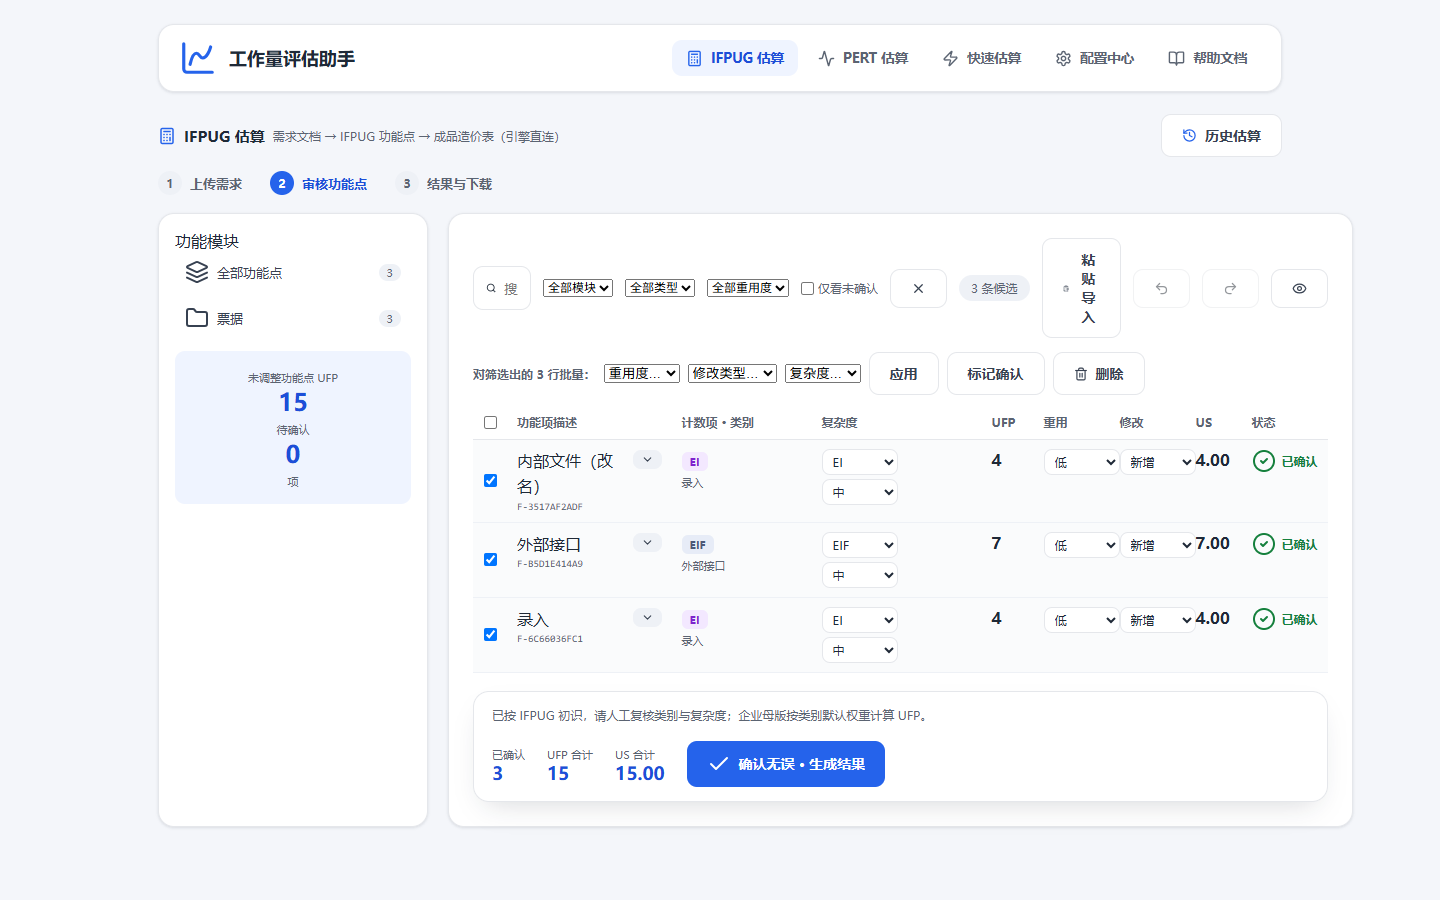
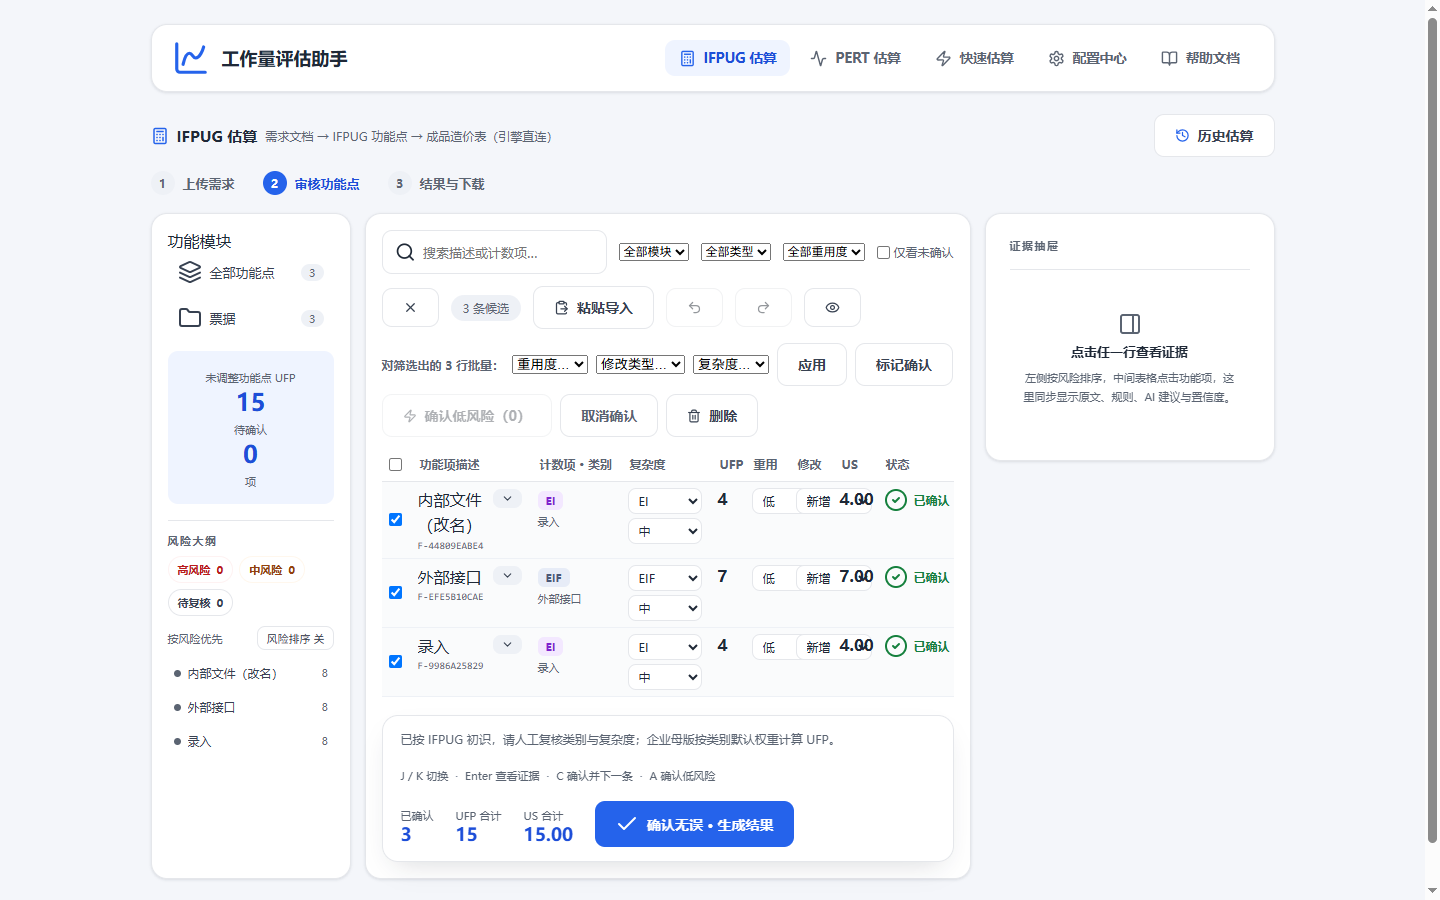
test(phase3): 稳定 ID 三版本导出导入验证 (T06194)
- 同一项目 v1/v2/v3 导出真实 zip，导入全新数据目录后 ID 不变、明细无丢失\n- 导入后重开 v4 与类型变更 v5，映射表/替换链通过\n- 新测试 19/19；既有 stable-ids API/UI 复跑 20/20

diff --git a/tests/phase3/stable_ids_versions.py b/tests/phase3/stable_ids_versions.py
@@ -1,0 +1,146 @@
+# -*- coding: utf-8 -*-
+"""T06194：同一项目 3 个版本导出/导入/重开后的稳定 ID 与映射表校验。
+
+不依赖在线服务；直接使用真实 HistStore + datakeeper 导出/导入 zip，
+覆盖 AC-11 的 3 版本迭代、导出、导入、重开与类型变更链。
+"""
+import json
+import os
+import shutil
+import sqlite3
+import sys
+import tempfile
+from pathlib import Path
+
+ROOT = Path(__file__).resolve().parents[2]
+sys.path.insert(0, str(ROOT / "scripts"))
+import history as H  # noqa: E402
+import datakeeper as DK  # noqa: E402
+
+PASS = FAIL = 0
+CASES = []
+
+
+def check(name, cond, detail=""):
+    global PASS, FAIL
+    CASES.append({"title": name, "ok": bool(cond), "detail": str(detail)})
+    if cond:
+        PASS += 1
+        print(f"  PASS  {name}  — {detail}")
+    else:
+        FAIL += 1
+        print(f"  FAIL  {name}  — {detail}")
+
+
+def item(desc, typ="ILF", system="票据", count="内部文件"):
+    return {"desc": desc, "type": typ, "system": system, "cx": "中", "reuse": "低",
+            "modify": "新增", "count_item": count, "seq": 1}
+
+
+def sids(items):
+    return [x.get("stable_id") for x in items]
+
+
+def main():
+    tmp = tempfile.mkdtemp(prefix="stable_versions_")
+    data = os.path.join(tmp, "data")
+    restore = os.path.join(tmp, "restore")
+    os.makedirs(data, exist_ok=True)
+    os.makedirs(restore, exist_ok=True)
+    zip_path = os.path.join(tmp, "data_export.zip")
+    try:
+        # 导出包要求 pert.db；真实环境会由主程序生成，测试用最小库占位。
+        sqlite3.connect(os.path.join(data, "pert.db")).close()
+        with open(os.path.join(data, DK.F_SCHEMA_VER), "w", encoding="utf-8") as f:
+            f.write(str(DK.SCHEMA_VER))
+
+        h = H.HistStore(os.path.join(data, "estimation.db"))
+        base = [item("内部文件"), item("外部接口", "EIF"), item("录入", "EI", count="录入")]
+        r1 = h.insert(title="稳定ID三版本", method="IFPUG", items=[dict(x) for x in base],
+                      summary={"count": 3})
+        v1 = h.get(r1["id"])
+        sid1 = sids(v1["items"])
+        check("第1版生成3个稳定ID", len(sid1) == 3 and all(s.startswith("F-") for s in sid1), sid1)
+
+        r2 = h.insert(title="稳定ID三版本", method="IFPUG", items=[dict(x) for x in v1["items"]],
+                      summary={"count": 3}, reopen_group=r1["version_group"])
+        v2 = h.get(r2["id"])
+        check("第2版稳定ID不变", sids(v2["items"]) == sid1, sids(v2["items"]))
+
+        changed_desc = [dict(v2["items"][0], desc="内部文件（v3改名）"), dict(v2["items"][1]), dict(v2["items"][2])]
+        r3 = h.insert(title="稳定ID三版本", method="IFPUG", items=changed_desc,
+                      summary={"count": 3}, reopen_group=r1["version_group"])
+        v3 = h.get(r3["id"])
+        check("第3版改名但稳定ID不变", sids(v3["items"]) == sid1, sids(v3["items"]))
+        check("3个版本 version_no 递增", [v1["version_no"], v2["version_no"], v3["version_no"]] == [1, 2, 3],
+              [v1["version_no"], v2["version_no"], v3["version_no"]])
+        val = h.validate_ids()
+        check("导出前映射表校验通过", val["ok"] and val["rows"] == 3 and val["items"] == 9 and val["mapped"] == 3, val)
+
+        names = DK.export_zip(data, zip_path)
+        check("导出包包含估算库与 schema", DK.F_ESTIMATION_DB in names and DK.F_SCHEMA_VER in names, names)
+        check("导出包可被 zip 校验读取", os.path.getsize(zip_path) > 0 and zipfile_is_ok(zip_path), os.path.getsize(zip_path))
+
+        imported = DK.import_zip(zip_path, restore)
+        check("导入到全新数据目录成功", DK.F_ESTIMATION_DB in imported, imported)
+
+        h2 = H.HistStore(os.path.join(restore, "estimation.db"))
+        r1b = h2.get(r1["id"])
+        r2b = h2.get(r2["id"])
+        r3b = h2.get(r3["id"])
+        check("导入后第1版稳定ID不变", sids(r1b["items"]) == sid1, sids(r1b["items"]))
+        check("导入后第2版稳定ID不变", sids(r2b["items"]) == sid1, sids(r2b["items"]))
+        check("导入后第3版稳定ID不变", sids(r3b["items"]) == sid1, sids(r3b["items"]))
+        check("导入后明细字段无丢失",
+              [(x["desc"], x["type"], x["system"], x["count_item"]) for x in r3b["items"]] ==
+              [(x["desc"], x["type"], x["system"], x["count_item"]) for x in v3["items"]],
+              [(x["desc"], x["type"]) for x in r3b["items"]])
+        val2 = h2.validate_ids()
+        check("导入后映射表校验通过", val2["ok"] and val2["rows"] == 3 and val2["items"] == 9 and val2["mapped"] == 3, val2)
+
+        v4_items = [dict(r3b["items"][0], desc="内部文件（导入后重开）"), dict(r3b["items"][1]), dict(r3b["items"][2])]
+        r4 = h2.insert(title="稳定ID三版本", method="IFPUG", items=v4_items,
+                       summary={"count": 3}, reopen_group=r3b["version_group"])
+        v4 = h2.get(r4["id"])
+        check("导入后重开第4版稳定ID不变", sids(v4["items"]) == sid1, sids(v4["items"]))
+        check("重开第4版 version_no=4", v4["version_no"] == 4, v4["version_no"])
+        d = h2.diff(r3b["id"], r4["id"])
+        check("导入后重开 diff 只含1条改名", d["summary"] == {"added": 0, "removed": 0, "changed": 1}, d["summary"])
+
+        v5_items = [dict(v4["items"][0], type="EI", count_item="录入"), dict(v4["items"][1]), dict(v4["items"][2])]
+        r5 = h2.insert(title="稳定ID三版本", method="IFPUG", items=v5_items,
+                       summary={"count": 3}, reopen_group=r3b["version_group"])
+        v5 = h2.get(r5["id"])
+        new_sid = sids(v5["items"])[0]
+        check("导入后类型变更生成新ID", new_sid != sid1[0], new_sid)
+        check("新ID replaces_id 指向旧ID", v5["items"][0].get("replaces_id") == sid1[0], v5["items"][0].get("replaces_id"))
+        val3 = h2.validate_ids()
+        check("类型变更后映射表/替换链通过", val3["ok"] and val3["rows"] == 5 and val3["items"] == 15 and val3["mapped"] == 4, val3)
+    finally:
+        shutil.rmtree(tmp, ignore_errors=True)
+    out = ROOT / "docs" / "test-reports" / "phase3-20261122" / "results" / "stable-ids-versions.json"
+    out.write_text(json.dumps({
+        "suite": "stable-ids-versions",
+        "task": "T06194",
+        "at": __import__("datetime").datetime.now().isoformat(timespec="seconds"),
+        "checks": CASES,
+        "pass": PASS,
+        "fail": FAIL,
+        "total": PASS + FAIL,
+    }, ensure_ascii=False, indent=2), encoding="utf-8")
+    print(f"==== 稳定ID三版本导出导入 ==== 通过 {PASS} / 失败 {FAIL}")
+    return 1 if FAIL else 0
+
+
+def zipfile_is_ok(path):
+    import zipfile
+    try:
+        with zipfile.ZipFile(path) as z:
+            return z.testzip() is None and DK.F_ESTIMATION_DB in z.namelist()
+    except Exception:
+        return False
+
+
+if __name__ == "__main__":
+    sys.exit(main())
+

diff --git a/docs/test-reports/phase3-20261122/stable-ids-versions-验收.md b/docs/test-reports/phase3-20261122/stable-ids-versions-验收.md
@@ -1,0 +1,53 @@
+# T06194 稳定 ID 跨版本一致性 · 验收报告
+
+- 任务：MTask `T06194`《[PRD] 验证稳定ID跨版本一致性》
+- 任务 ID：`c82c47d5-b65b-4f8f-99f0-061b1d16e4cd`
+- 优先级：urgent
+- 验收日期：2026-11-24
+- 结论：**通过（3 版本迭代 / 导出 / 导入全新目录 / 重开 / 类型变更链全部闭环）**
+
+## 1. 口径
+
+- 任务 description 写“验收项：AC-14”，关联准则写 `AC-11`。本次按关联准则与行为定义执行 AC-11：同一项目 3 个版本，导出 / 导入 / 重开后功能 ID 不变、映射表校验通过、无数据丢失。
+- T06194 是验证任务，不新增产品功能；测试使用真实 `HistStore` 与 `datakeeper.export_zip/import_zip`，在临时目录隔离运行，不触碰真实用户数据。
+
+## 2. 测试方法
+
+1. 在临时数据目录创建 `pert.db`、`schema_ver` 和 `estimation.db`。
+2. 同一项目写入 3 个版本：v1 基线 3 项；v2 原样重开；v3 改名但携带 `stable_id`。
+3. 校验 3 个版本的 `version_no`、`stable_id` 和 `item_id_map`。
+4. `datakeeper.export_zip` 生成真实数据包，检查 `pert.db + estimation.db + schema_ver`。
+5. `datakeeper.import_zip` 导入全新目录，重新打开 v1/v2/v3，逐字段比对。
+6. 导入后重开 v4，再对第 1 项做类型变更生成 v5，校验 `replaces_id` 替换链。
+
+## 3. 结果
+
+| 检查 | 结果 |
+|---|---|
+| 第 1 版生成 3 个稳定 ID | PASS：`F-F53B2C01B3` / `F-2AE58F250E` / `F-E4FC4C1CD4` |
+| 第 2 版稳定 ID 不变 | PASS |
+| 第 3 版改名但 ID 不变 | PASS |
+| 3 个版本 version_no | PASS：1 / 2 / 3 |
+| 导出前映射表 | PASS：rows=3、items=9、mapped=3、issues=[] |
+| 导出包 | PASS：`pert.db`、`estimation.db`、`schema_ver`，zip 可读，1850 B |
+| 导入全新目录 | PASS：3 个文件全部导入 |
+| 导入后 v1/v2/v3 稳定 ID | PASS：三版 ID 均与导出前一致 |
+| 导入后明细字段 | PASS：desc / type / system / count_item 与导出前一致 |
+| 导入后映射表 | PASS：rows=3、items=9、mapped=3、issues=[] |
+| 导入后重开 v4 | PASS：ID 不变，version_no=4，diff 仅 1 条改名 |
+| 导入后类型变更 v5 | PASS：新 ID `F-44A1A17B5E`，`replaces_id=F-F53B2C01B3` |
+| 最终替换链 | PASS：rows=5、items=15、mapped=4、issues=[] |
+
+- 新测试：`tests/phase3/stable_ids_versions.py` **19/19**，结果 `results/stable-ids-versions.json`。
+- 既有 API/UI 回归：`tests/phase3/ui_stable_ids.mjs` **20/20**，覆盖 5 个版本、diff、映射表、数据导出、复核页稳定 ID 展示。
+- 截图：`screenshots/stable_ids_review_1440.png`（复核页每行显示稳定 ID）。
+
+## 4. 已知边界
+
+1. 本测试覆盖存储层真实导出/导入代码路径；浏览器“上传 zip → 导入”交互未单独点击验证，但 `/api/data/import` 调用的就是同一个 `datakeeper.import_zip`。
+2. 测试使用最小 `pert.db` 占位，不校验 PERT 业务数据；本次只验证估算历史库与稳定 ID 映射，不涉及 PERT 数据迁移。
+3. 3 个版本指同一项目版本组内的 v1–v3；另存新项目重新发号由 T06187 单测与 `ui_stable_ids` 覆盖。
+
+## 5. 结论
+
+AC-11 要求的 3 版本导出、导入、重开、ID 不变、映射表通过、无数据丢失均已实测通过；导入后继续重开和类型变更也能保持替换链完整。T06194 可以提交并回写 MTask。
